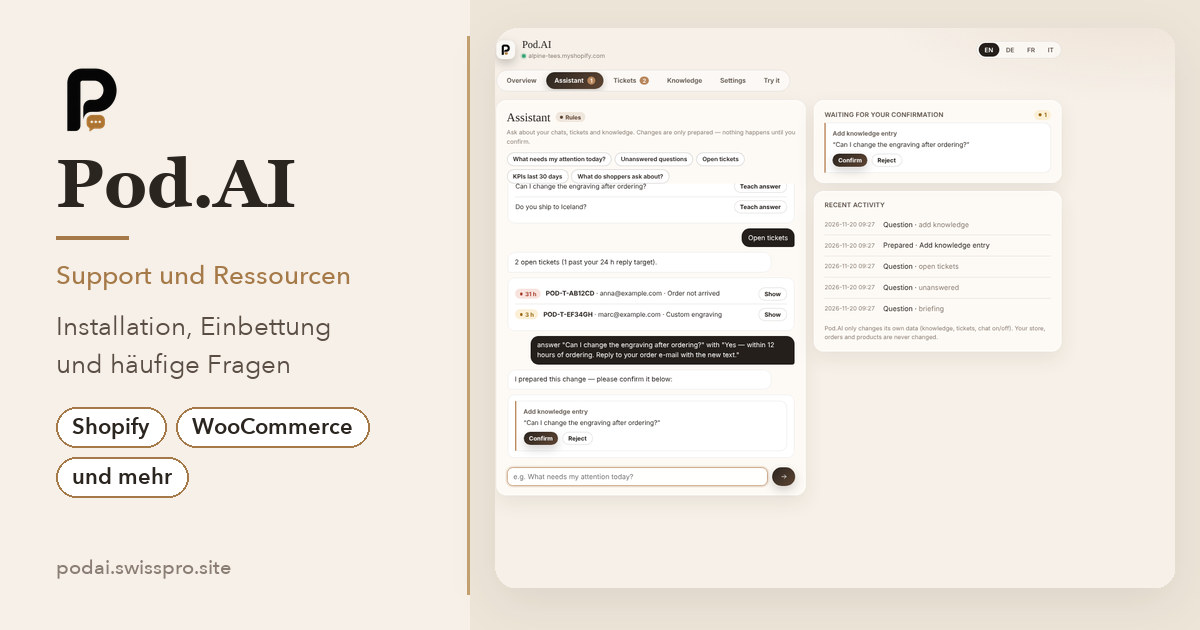
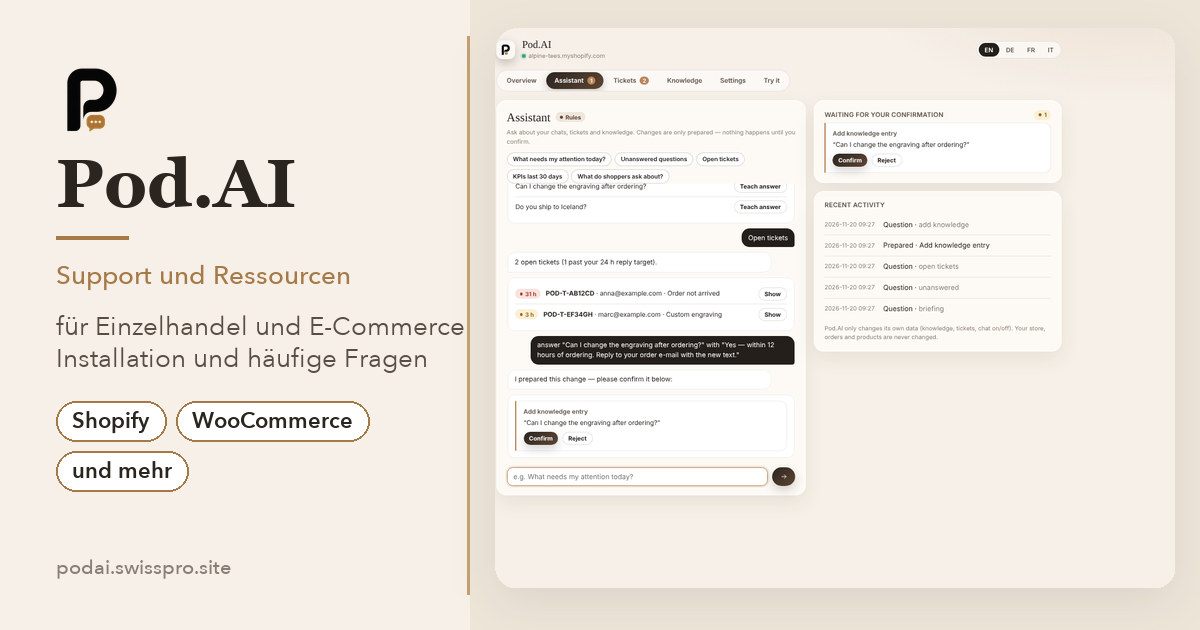
SEO: Pod.AI share cards cover retail and e-commerce
Generic German previews now say Pod.AI is a KI-Agent for Einzelhandel
and E-Commerce, on Shopify, WooCommerce and more (ss, not ß).

Changed region(s): [[0.0308, 0.6333, 0.3083, 0.8143], [0.0308, 0.5127, 0.4008, 0.6032]]

diff --git a/server/shopify-agent/support.html b/server/shopify-agent/support.html
@@ -15,7 +15,7 @@
 <meta property="og:locale:alternate" content="it_CH"/>
 <meta property="og:url" content="https://podai.swisspro.site/support"/>
 <meta property="og:title" content="Support und Ressourcen — Pod.AI"/>
-<meta property="og:description" content="Pod.AI für Shopify, WooCommerce und mehr installieren, Theme-Embed aktivieren, häufige Fragen und Kontakt zum Support-Team."/>
+<meta property="og:description" content="Pod.AI für Einzelhandel und E-Commerce installieren — Shopify, WooCommerce und mehr. Theme-Embed, häufige Fragen und Kontakt zum Support-Team."/>
 <meta property="og:image" content="https://podai.swisspro.site/assets/brand/og-podai-support.jpg"/>
 <meta property="og:image:width" content="1200"/>
 <meta property="og:image:height" content="630"/>
@@ -28,7 +28,7 @@
 <meta property="og:image:alt" content="Support und Ressourcen — Pod.AI"/>
 <meta name="twitter:card" content="summary_large_image"/>
 <meta name="twitter:title" content="Support und Ressourcen — Pod.AI"/>
-<meta name="twitter:description" content="Pod.AI für Shopify, WooCommerce und mehr installieren, Theme-Embed aktivieren, häufige Fragen und Kontakt zum Support-Team."/>
+<meta name="twitter:description" content="Pod.AI für Einzelhandel und E-Commerce installieren — Shopify, WooCommerce und mehr. Theme-Embed, häufige Fragen und Kontakt zum Support-Team."/>
 <meta name="twitter:image" content="https://podai.swisspro.site/assets/brand/og-podai-support.jpg"/>
 <script type="application/ld+json">
 {"@context":"https://schema.org","@graph":[{"@type":"Organization","@id":"https://podai.swisspro.site/#organization","name":"Pod.AI","legalName":"Dropking AI","url":"https://podai.swisspro.site/","email":"support@swisspro.site"},{"@type":"WebPage","@id":"https://podai.swisspro.site/support#webpage","url":"https://podai.swisspro.site/support","name":"Support & resources — Pod.AI","description":"Install Pod.AI, enable the theme embed, FAQ, and contact support.","isPartOf":{"@type":"WebSite","@id":"https://podai.swisspro.site/#website","url":"https://podai.swisspro.site/","name":"Pod.AI"},"about":{"@id":"https://podai.swisspro.site/#app"},"publisher":{"@id":"https://podai.swisspro.site/#organization"}},{"@type":"FAQPage","@id":"https://podai.swisspro.site/support#faq","url":"https://podai.swisspro.site/support","mainEntity":[{"@type":"Question","name":"Do I need an AI / LLM key?","acceptedAnswer":{"@type":"Answer","text":"No. Product, shipping, policy and order answers work from your store data without a key. An optional LLM can answer open questions when you turn it on."}},{"@type":"Question","name":"Which languages are supported?","acceptedAnswer":{"@type":"Answer","text":"English, German, French, Italian and Chinese are built in. More languages work when an LLM is enabled."}},{"@type":"Question","name":"How does order lookup work?","acceptedAnswer":{"@type":"Answer","text":"Shoppers provide order number and e-mail. The App checks they match, then shows status and tracking when available."}},{"@type":"Question","name":"Where do handoffs go?","acceptedAnswer":{"@type":"Answer","text":"Apps → Pod.AI → Handoffs. The shopper can leave a reply e-mail; your team answers by e-mail."}},{"@type":"Question","name":"Is customer data shared across stores?","acceptedAnswer":{"@type":"Answer","text":"No. Data is separated per shop and deleted after uninstall when the platform sends its shop-deletion request. See the Privacy Policy."}}]}]}

diff --git a/agent.html b/agent.html
@@ -12,21 +12,21 @@
 <meta property="og:locale:alternate" content="fr_CH"/>
 <meta property="og:locale:alternate" content="it_CH"/>
 <meta property="og:url" content="https://podai.swisspro.site/"/>
-<meta property="og:title" content="Pod.AI — Agentic-Commerce-KI-Agent"/>
-<meta property="og:description" content="Der Agentic-Commerce-KI-Agent für Shopify, WooCommerce und mehr. Antwortet mit echten Shop-Daten, empfiehlt lagernde Produkte, legt sie in den Warenkorb."/>
+<meta property="og:title" content="Pod.AI — KI-Agent für Einzelhandel und E-Commerce"/>
+<meta property="og:description" content="Der KI-Agent für Einzelhandel und E-Commerce, auf Shopify, WooCommerce und mehr. Antwortet mit echten Shop-Daten und legt Produkte in den Warenkorb."/>
 <meta property="og:image" content="https://podai.swisspro.site/assets/brand/og-podai-home.jpg"/>
 <meta property="og:image:width" content="1200"/>
 <meta property="og:image:height" content="630"/>
 <meta property="og:image:type" content="image/jpeg"/>
-<meta property="og:image:alt" content="Pod.AI — Agentic-Commerce-KI-Agent"/>
+<meta property="og:image:alt" content="Pod.AI — KI-Agent für Einzelhandel und E-Commerce"/>
 <meta property="og:image" content="https://podai.swisspro.site/assets/brand/og-podai-square.jpg"/>
 <meta property="og:image:width" content="600"/>
 <meta property="og:image:height" content="600"/>
 <meta property="og:image:type" content="image/jpeg"/>
-<meta property="og:image:alt" content="Pod.AI — Agentic-Commerce-KI-Agent"/>
+<meta property="og:image:alt" content="Pod.AI — KI-Agent für Einzelhandel und E-Commerce"/>
 <meta name="twitter:card" content="summary_large_image"/>
-<meta name="twitter:title" content="Pod.AI — Agentic-Commerce-KI-Agent"/>
-<meta name="twitter:description" content="Der Agentic-Commerce-KI-Agent für Shopify, WooCommerce und mehr. Antwortet mit echten Shop-Daten, empfiehlt lagernde Produkte, legt sie in den Warenkorb."/>
+<meta name="twitter:title" content="Pod.AI — KI-Agent für Einzelhandel und E-Commerce"/>
+<meta name="twitter:description" content="Der KI-Agent für Einzelhandel und E-Commerce, auf Shopify, WooCommerce und mehr. Antwortet mit echten Shop-Daten und legt Produkte in den Warenkorb."/>
 <meta name="twitter:image" content="https://podai.swisspro.site/assets/brand/og-podai-home.jpg"/>
 <link rel="icon" type="image/png" sizes="32x32" href="/assets/brand/icon-32.png?v=20261109e"/>
 <link rel="apple-touch-icon" sizes="180x180" href="/assets/brand/icon-180.png?v=20261109e"/>

diff --git a/server/shopify-agent/dpa.html b/server/shopify-agent/dpa.html
@@ -11,7 +11,7 @@
 <meta property="og:locale:alternate" content="it_CH"/>
 <meta property="og:url" content="https://podai.swisspro.site/dpa"/>
 <meta property="og:title" content="Auftragsbearbeitungsvertrag — Pod.AI"/>
-<meta property="og:description" content="Auftragsbearbeitungsvertrag (DPA) für Händler, die Pod.AI in Shopify, WooCommerce oder anderen Shops nutzen."/>
+<meta property="og:description" content="Auftragsbearbeitungsvertrag (DPA) für Händler, die Pod.AI in Einzelhandel, E-Commerce oder verbundenen Shops nutzen."/>
 <meta property="og:image" content="https://podai.swisspro.site/assets/brand/og-podai-legal.jpg"/>
 <meta property="og:image:width" content="1200"/>
 <meta property="og:image:height" content="630"/>
@@ -24,7 +24,7 @@
 <meta property="og:image:alt" content="Auftragsbearbeitungsvertrag — Pod.AI"/>
 <meta name="twitter:card" content="summary_large_image"/>
 <meta name="twitter:title" content="Auftragsbearbeitungsvertrag — Pod.AI"/>
-<meta name="twitter:description" content="Auftragsbearbeitungsvertrag (DPA) für Händler, die Pod.AI in Shopify, WooCommerce oder anderen Shops nutzen."/>
+<meta name="twitter:description" content="Auftragsbearbeitungsvertrag (DPA) für Händler, die Pod.AI in Einzelhandel, E-Commerce oder verbundenen Shops nutzen."/>
 <meta name="twitter:image" content="https://podai.swisspro.site/assets/brand/og-podai-legal.jpg"/>
 <script type="application/ld+json">
 {"@context":"https://schema.org","@graph":[{"@type":"Organization","@id":"https://podai.swisspro.site/#organization","name":"Pod.AI","legalName":"Dropking AI","url":"https://podai.swisspro.site/","email":"support@swisspro.site"},{"@type":"WebPage","@id":"https://podai.swisspro.site/dpa#webpage","url":"https://podai.swisspro.site/dpa","name":"Data Processing Addendum — Pod.AI","description":"Data Processing Addendum for merchants using the Pod.AI Shopify app.","isPartOf":{"@type":"WebSite","@id":"https://podai.swisspro.site/#website","url":"https://podai.swisspro.site/","name":"Pod.AI"},"about":{"@id":"https://podai.swisspro.site/#app"},"publisher":{"@id":"https://podai.swisspro.site/#organization"}}]}

diff --git a/server/shopify-agent/terms.html b/server/shopify-agent/terms.html
@@ -12,7 +12,7 @@
 <meta property="og:locale:alternate" content="it_CH"/>
 <meta property="og:url" content="https://podai.swisspro.site/terms"/>
 <meta property="og:title" content="Nutzungsbedingungen — Pod.AI"/>
-<meta property="og:description" content="Nutzungsbedingungen der Pod.AI App für Shopify, WooCommerce und weitere Plattformen, betrieben von Dropking AI."/>
+<meta property="og:description" content="Nutzungsbedingungen der Pod.AI App für Einzelhandel und E-Commerce, einschliesslich Shopify, WooCommerce und weiterer Plattformen."/>
 <meta property="og:image" content="https://podai.swisspro.site/assets/brand/og-podai-legal.jpg"/>
 <meta property="og:image:width" content="1200"/>
 <meta property="og:image:height" content="630"/>
@@ -25,7 +25,7 @@
 <meta property="og:image:alt" content="Nutzungsbedingungen — Pod.AI"/>
 <meta name="twitter:card" content="summary_large_image"/>
 <meta name="twitter:title" content="Nutzungsbedingungen — Pod.AI"/>
-<meta name="twitter:description" content="Nutzungsbedingungen der Pod.AI App für Shopify, WooCommerce und weitere Plattformen, betrieben von Dropking AI."/>
+<meta name="twitter:description" content="Nutzungsbedingungen der Pod.AI App für Einzelhandel und E-Commerce, einschliesslich Shopify, WooCommerce und weiterer Plattformen."/>
 <meta name="twitter:image" content="https://podai.swisspro.site/assets/brand/og-podai-legal.jpg"/>
 <script type="application/ld+json">
 {"@context":"https://schema.org","@graph":[{"@type":"Organization","@id":"https://podai.swisspro.site/#organization","name":"Pod.AI","legalName":"Dropking AI","url":"https://podai.swisspro.site/","email":"support@swisspro.site"},{"@type":"WebPage","@id":"https://podai.swisspro.site/terms#webpage","url":"https://podai.swisspro.site/terms","name":"Terms of Service — Pod.AI","description":"Terms of service for the Pod.AI app operated by Dropking AI.","isPartOf":{"@type":"WebSite","@id":"https://podai.swisspro.site/#website","url":"https://podai.swisspro.site/","name":"Pod.AI"},"about":{"@id":"https://podai.swisspro.site/#app"},"publisher":{"@id":"https://podai.swisspro.site/#organization"}}]}

diff --git a/server/shopify-agent/security.html b/server/shopify-agent/security.html
@@ -11,7 +11,7 @@
 <meta property="og:locale:alternate" content="it_CH"/>
 <meta property="og:url" content="https://podai.swisspro.site/security"/>
 <meta property="og:title" content="Sicherheit und Vorfälle — Pod.AI"/>
-<meta property="og:description" content="Wie Dropking AI die Daten von Pod.AI schützt, auch in Shopify-, WooCommerce- und anderen verbundenen Shops."/>
+<meta property="og:description" content="Wie Dropking AI die Daten von Pod.AI schützt, in Einzelhandel und E-Commerce sowie in verbundenen Shops."/>
 <meta property="og:image" content="https://podai.swisspro.site/assets/brand/og-podai-legal.jpg"/>
 <meta property="og:image:width" content="1200"/>
 <meta property="og:image:height" content="630"/>
@@ -24,7 +24,7 @@
 <meta property="og:image:alt" content="Sicherheit und Vorfälle — Pod.AI"/>
 <meta name="twitter:card" content="summary_large_image"/>
 <meta name="twitter:title" content="Sicherheit und Vorfälle — Pod.AI"/>
-<meta name="twitter:description" content="Wie Dropking AI die Daten von Pod.AI schützt, auch in Shopify-, WooCommerce- und anderen verbundenen Shops."/>
+<meta name="twitter:description" content="Wie Dropking AI die Daten von Pod.AI schützt, in Einzelhandel und E-Commerce sowie in verbundenen Shops."/>
 <meta name="twitter:image" content="https://podai.swisspro.site/assets/brand/og-podai-legal.jpg"/>
 <script type="application/ld+json">
 {"@context":"https://schema.org","@graph":[{"@type":"Organization","@id":"https://podai.swisspro.site/#organization","name":"Pod.AI","legalName":"Dropking AI","url":"https://podai.swisspro.site/","email":"support@swisspro.site"},{"@type":"WebPage","@id":"https://podai.swisspro.site/security#webpage","url":"https://podai.swisspro.site/security","name":"Security & Incident Response Policy — Pod.AI","description":"How Dropking AI secures Pod.AI data and responds to security incidents.","isPartOf":{"@type":"WebSite","@id":"https://podai.swisspro.site/#website","url":"https://podai.swisspro.site/","name":"Pod.AI"},"about":{"@id":"https://podai.swisspro.site/#app"},"publisher":{"@id":"https://podai.swisspro.site/#organization"}}]}

diff --git a/server/shopify-agent/privacy.html b/server/shopify-agent/privacy.html
@@ -11,7 +11,7 @@
 <meta property="og:locale:alternate" content="it_CH"/>
 <meta property="og:url" content="https://podai.swisspro.site/privacy"/>
 <meta property="og:title" content="Datenschutz — Pod.AI"/>
-<meta property="og:description" content="Wie die Pod.AI App Händler- und Kundendaten in Shopify-, WooCommerce- und anderen Shops verarbeitet."/>
+<meta property="og:description" content="Wie die Pod.AI App Händler- und Kundendaten in Einzelhandel und E-Commerce verarbeitet, etwa in Shopify-, WooCommerce- und anderen Shops."/>
 <meta property="og:image" content="https://podai.swisspro.site/assets/brand/og-podai-legal.jpg"/>
 <meta property="og:image:width" content="1200"/>
 <meta property="og:image:height" content="630"/>
@@ -24,7 +24,7 @@
 <meta property="og:image:alt" content="Datenschutz — Pod.AI"/>
 <meta name="twitter:card" content="summary_large_image"/>
 <meta name="twitter:title" content="Datenschutz — Pod.AI"/>
-<meta name="twitter:description" content="Wie die Pod.AI App Händler- und Kundendaten in Shopify-, WooCommerce- und anderen Shops verarbeitet."/>
+<meta name="twitter:description" content="Wie die Pod.AI App Händler- und Kundendaten in Einzelhandel und E-Commerce verarbeitet, etwa in Shopify-, WooCommerce- und anderen Shops."/>
 <meta name="twitter:image" content="https://podai.swisspro.site/assets/brand/og-podai-legal.jpg"/>
 <script type="application/ld+json">
 {"@context":"https://schema.org","@graph":[{"@type":"Organization","@id":"https://podai.swisspro.site/#organization","name":"Pod.AI","legalName":"Dropking AI","url":"https://podai.swisspro.site/","email":"support@swisspro.site"},{"@type":"WebPage","@id":"https://podai.swisspro.site/privacy#webpage","url":"https://podai.swisspro.site/privacy","name":"Privacy Policy — Pod.AI","description":"How the Pod.AI app handles merchant and customer data for online stores.","isPartOf":{"@type":"WebSite","@id":"https://podai.swisspro.site/#website","url":"https://podai.swisspro.site/","name":"Pod.AI"},"about":{"@id":"https://podai.swisspro.site/#app"},"publisher":{"@id":"https://podai.swisspro.site/#organization"}}]}

diff --git a/server/shopify-agent/woocommerce.html b/server/shopify-agent/woocommerce.html
@@ -14,7 +14,7 @@
 <meta property="og:locale:alternate" content="it_CH"/>
 <meta property="og:url" content="https://podai.swisspro.site/woocommerce"/>
 <meta property="og:title" content="Pod.AI für WooCommerce"/>
-<meta property="og:description" content="Pod.AI auch für WooCommerce: derselbe Agentic-Commerce-KI-Agent wie für Shopify und andere Plattformen, mit Warenkorb, Bestellungen und MCP-API."/>
+<meta property="og:description" content="Pod.AI auch für WooCommerce: derselbe KI-Agent für Einzelhandel und E-Commerce wie auf Shopify und anderen Plattformen, mit Warenkorb und MCP-API."/>
 <meta property="og:image" content="https://podai.swisspro.site/assets/brand/og-podai-woo.jpg"/>
 <meta property="og:image:width" content="1200"/>
 <meta property="og:image:height" content="630"/>
@@ -27,7 +27,7 @@
 <meta property="og:image:alt" content="Pod.AI für WooCommerce"/>
 <meta name="twitter:card" content="summary_large_image"/>
 <meta name="twitter:title" content="Pod.AI für WooCommerce"/>
-<meta name="twitter:description" content="Pod.AI auch für WooCommerce: derselbe Agentic-Commerce-KI-Agent wie für Shopify und andere Plattformen, mit Warenkorb, Bestellungen und MCP-API."/>
+<meta name="twitter:description" content="Pod.AI auch für WooCommerce: derselbe KI-Agent für Einzelhandel und E-Commerce wie auf Shopify und anderen Plattformen, mit Warenkorb und MCP-API."/>
 <meta name="twitter:image" content="https://podai.swisspro.site/assets/brand/og-podai-woo.jpg"/>
 <style>
 :root{--ink:#2b2520;--mut:#6f655c;--bg:#f6f1ea;--card:#fffdf9;--line:#e7ded3;--acc:#b07a4f}

diff --git a/server/chat-i18n-test.js b/server/chat-i18n-test.js
@@ -99,7 +99,8 @@ try {
   const podaiOgHome = (await getHost("/", "podai.swisspro.site")).body;
   const podaiOgTitle = meta(podaiOgHome, /<meta property="og:title" content="([^"]+)"/);
   const podaiOgDesc = meta(podaiOgHome, /<meta property="og:description" content="([^"]+)"/);
-  assert.match(podaiOgTitle, /Agentic-Commerce-KI-Agent/);
+  assert.match(podaiOgTitle, /Einzelhandel/);
+  assert.match(podaiOgTitle, /E-Commerce/);
   assert.ok(!/WooCommerce KI-Chatbot/i.test(podaiOgTitle));
   assert.match(podaiOgDesc, /Shopify/);
   assert.match(podaiOgDesc, /WooCommerce/);

diff --git a/scripts/generate-og-cards.py b/scripts/generate-og-cards.py
@@ -335,9 +335,12 @@ def main():
         ty = bb[3] + 16
         draw.rectangle((tx, ty, tx + 72, ty + 3), fill=GOLD)
         ty += 28
-        draw.text((tx, ty), kicker, font=font_avenir(26, 5), fill=GOLD, anchor="lt")
-        bb = draw.textbbox((tx, ty), kicker, font=font_avenir(26, 5))
-        ty = bb[3] + 18
+        kickers = kicker if isinstance(kicker, (list, tuple)) else [kicker]
+        for line in kickers:
+            draw.text((tx, ty), line, font=font_avenir(26, 5), fill=GOLD, anchor="lt")
+            bb = draw.textbbox((tx, ty), line, font=font_avenir(26, 5))
+            ty = bb[3] + 4
+        ty += 14
         for line in headline_lines:
             draw.text((tx, ty), line, font=font_avenir(26, 7), fill=INK_SOFT, anchor="lt")
             bb = draw.textbbox((tx, ty), line, font=font_avenir(26, 7))
@@ -350,7 +353,7 @@ def main():
     save_jpeg(
         podai_product_card(
             [],
-            kicker="Agentic-Commerce-KI-Agent",
+            kicker=["KI-Agent für", "Einzelhandel und E-Commerce"],
         ),
         OUT / "og-podai-home.jpg",
     )
@@ -364,14 +367,14 @@ def main():
     )
     save_jpeg(
         podai_product_card(
-            ["Installation, Einbettung", "und häufige Fragen"],
+            ["für Einzelhandel und E-Commerce", "Installation und häufige Fragen"],
             kicker="Support und Ressourcen",
         ),
         OUT / "og-podai-support.jpg",
     )
     save_jpeg(
         podai_product_card(
-            ["Datenschutz, Bedingungen", "und Sicherheit"],
+            ["für Einzelhandel und E-Commerce", "Datenschutz, Bedingungen,", "Sicherheit"],
             kicker="Rechtliche Angaben",
         ),
         OUT / "og-podai-legal.jpg",
@@ -379,7 +382,7 @@ def main():
 
     ai_sq = square_card(
         mark, "Pod.AI",
-        ["Agentic-Commerce-KI-Agent", "Shopify · WooCommerce · mehr"],
+        ["KI-Agent für Einzelhandel", "und E-Commerce", "Shopify · WooCommerce · mehr"],
         "podai.swisspro.site",
         font_georgia(68), font_avenir(24, 7),
     )
